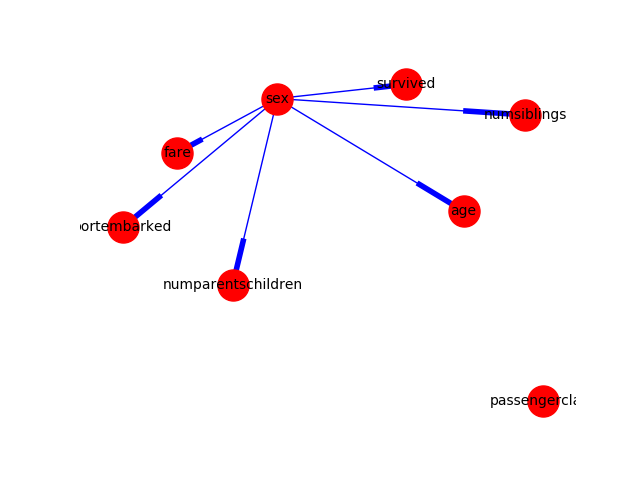
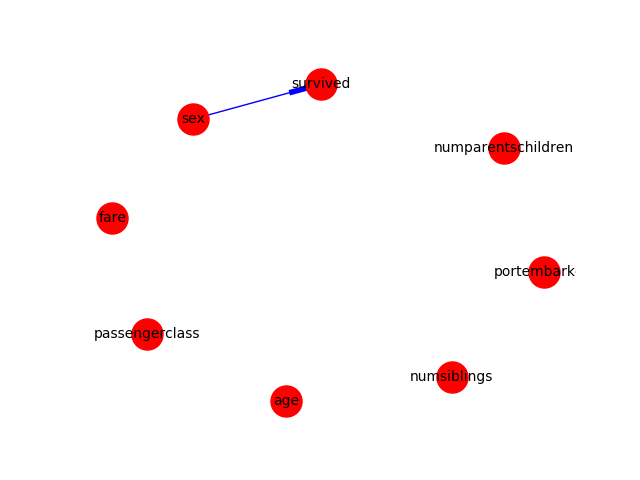
working again, now just running bigger files

diff --git a/grapho.py b/grapho.py
@@ -70,7 +70,7 @@ def optimizeGraph(graph, dataframe):
 # attempt the modifiaction at the provided node
 # try to connect the provided node to a random other node
 def getChangedGraph(graph, fromNode, dataframe):
-    maxTries = 10
+    maxTries = 100
     attempt = 0
     minScoreGain = 10
     initialGraph = graph.copy()
@@ -92,21 +92,21 @@ def getChangedGraph(graph, fromNode, dataframe):
                 if len(oxnet.getRandomVarParents(randomNode, graph))==0:  # allow one parent for now
                     tentativeGraph = bestMoveGaph.copy()
                     tentativeGraph.add_edge(fromNode, randomNode)
-                    print "TENTATIVE--> NODES: " + str(tentativeGraph.nodes()) + ", EDGES: " + str(tentativeGraph.edges())
                     tentativeScore = oscore.getScore(tentativeGraph, dataframe, attempt)
                     currentBestScore = oscore.getScore(bestMoveGaph, dataframe, attempt)
                     delta = int(tentativeScore) - int(currentBestScore)
                     print ">Evaluating new graph for better score: from=" + str(int(currentBestScore)) + " to=" + str(int(tentativeScore)) + \
-                          " GAIN=" + str(delta) + " adding EDGE=" + str(fromNode) +"-"+ str(randomNode)
-                    # if int(delta) > int(minScoreGain):
-                    cycles = list(nx.simple_cycles(tentativeGraph))
-                    print "Potential Graph Cycles: " + str(cycles)
-                    if len(cycles)==0:
-                        # if nx.is_directed_acyclic_graph(tentativeGraph)==False:
-                        print "==> Switching graph candidate!"
-                        bestMoveGaph = tentativeGraph.copy()
-                        # else: print "Did not adopt because it would cause a cycle in the graph..."
-                    # else: print "Not enough score gain to make the change..."
+                          " GAIN=" + str(delta) + " adding EDGE=" + str(fromNode) +"-"+ str(randomNode) + \
+                          "TO =>NODES: " + str(tentativeGraph.nodes()) + ", =>EDGES: " + str(tentativeGraph.edges())
+                    if int(delta) > int(minScoreGain):
+                        cycles = list(nx.simple_cycles(tentativeGraph))
+                        print "Potential Graph Cycles: " + str(cycles)
+                        if len(cycles)==0:
+                            # if nx.is_directed_acyclic_graph(tentativeGraph)==False:
+                            print "==> Switching graph candidate!"
+                            bestMoveGaph = tentativeGraph.copy()
+                            # else: print "Did not adopt because it would cause a cycle in the graph..."
+                    else: print "Did not enough score gain to make the change..."
                 else: print "Did not pursue because the toNode already has a parent..."
             else: print "Did not tackle because the nodes already shared an edge..."
         else: print "Did not tackle because the nodes already shared an edge..."
